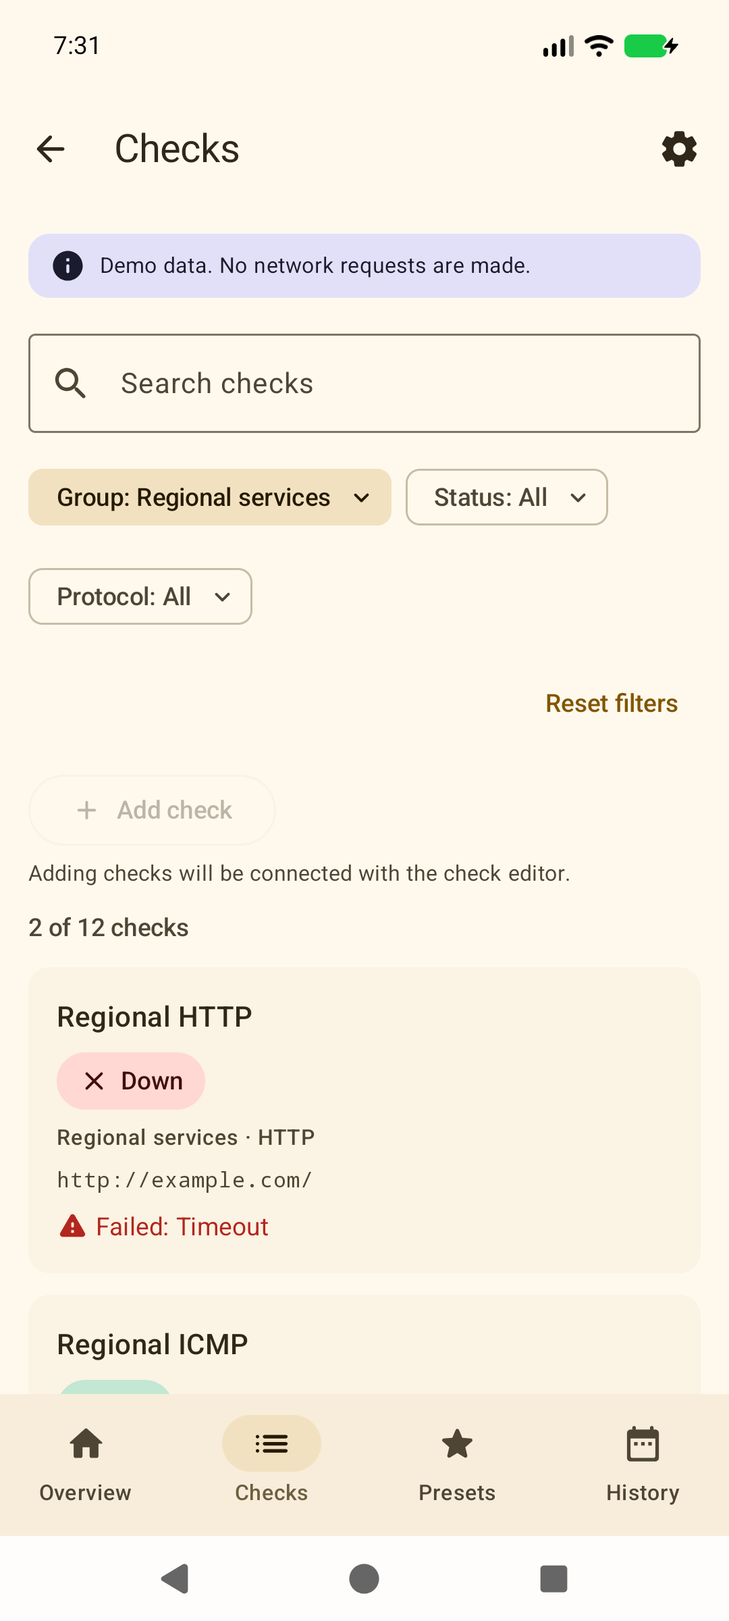
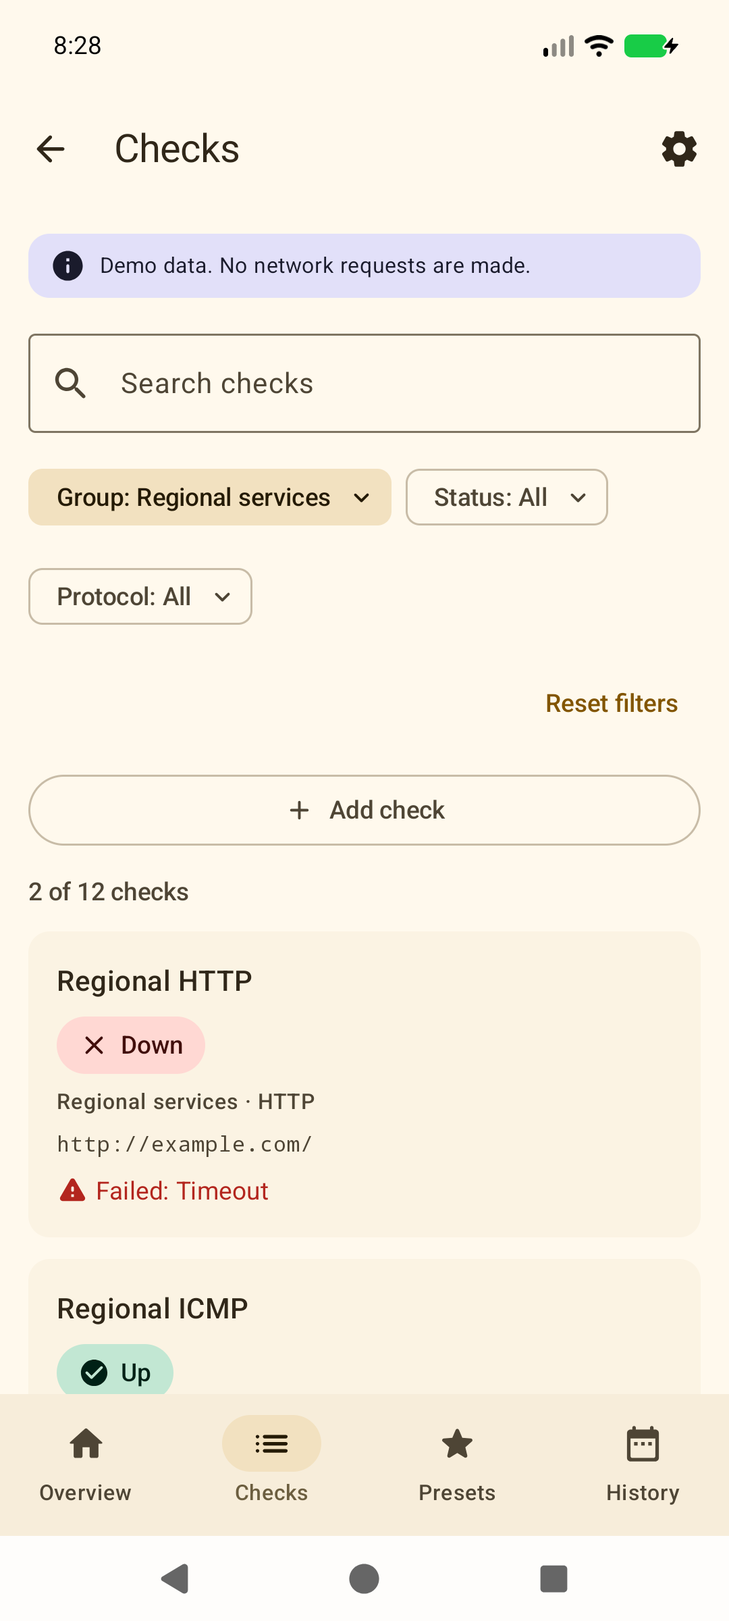
docs: document check editor workflows (#19)

diff --git a/docs/CHECK_EDITOR.md b/docs/CHECK_EDITOR.md
@@ -1,0 +1,103 @@
+# Check editor
+
+The check editor creates and edits every supported P0 probe with the real domain models. It is available from the Checks screen, including the empty state, and from the details screen.
+
+## Supported protocols
+
+The protocol selector covers all current P0 request families:
+
+| Protocol | Target fields | Success criteria |
+| --- | --- | --- |
+| TCP connect | host, port | a completed TCP handshake |
+| TLS | host, port, server name | certificate and hostname validation |
+| HTTP | URL | method, expected status range, optional body marker |
+| HTTPS | URL | method, expected status range, optional body marker |
+| System DNS | DNS name | record type, expected RCODE, answer requirement |
+| DNS over UDP | resolver host, port, DNS name | record type, expected RCODE, answer requirement |
+| DNS over TCP | resolver host, port, DNS name | record type, expected RCODE, answer requirement |
+| DNS over HTTPS | resolver URL, DNS name | record type, expected RCODE, answer requirement |
+| DNS over TLS | resolver host, port, server name, DNS name | record type, expected RCODE, answer requirement |
+| ICMP | host | packet count and minimum replies |
+
+Changing the protocol clears fields that belong to the previous protocol and sets the new protocol defaults. The check name, group and timeout are preserved.
+
+HTTP/3, raw UDP, WebSocket and gRPC are not offered. The editor names them explicitly and does not simulate an unsupported protocol. Redirects are controlled by the shared endpoint policy, not by a per-check switch. Schedule, notification thresholds and group monitoring are profile settings.
+
+## Validation
+
+The editor validates input before constructing `ProbeConfig`:
+
+- Hostnames, IPv4 and IPv6 literals; IPv6 endpoints with a port are shown as `[2001:db8::1]:443`.
+- Ports from 1 to 65535.
+- Absolute HTTP/HTTPS URLs with a host and without credentials or fragments. DoH requires HTTPS.
+- Timeouts from 0.1 to 120 seconds.
+- HTTP status ranges from 100 to 599, in forms such as `204` or `200-299`.
+- `HEAD` requests cannot use a body marker.
+- DNS names, record types from 1 to 65535, RCODE from 0 to 4095, and the rule that a non-zero RCODE cannot require an answer.
+- TLS and DoT server names must be DNS names. IP addresses are rejected as the TLS server name.
+- ICMP packet count from 1 to 10 with at least one reply and no more replies than packets.
+- A selected IP family must agree with a literal IPv4 or IPv6 address.
+
+Invalid input never reaches `ProbeConfig`; the save and test actions show field-level errors and keep the editor open.
+
+TLS certificate and hostname verification are always required. The editor has no switch that can disable them, and it states this next to the TLS target. The future runner performs the actual certificate validation; the editor never fakes a successful handshake.
+
+## Revisions and field reset
+
+A new check starts at revision 1. Editing a name only keeps the revision and its existing result. Changing the request or timeout calls `ProbeConfig.update`, which advances the revision and starts a new history key. The editor rebuilds the visible state from UNKNOWN when the revision changes, so a result from the previous definition is not shown as the current result.
+
+## Contracts and current limits
+
+`ProbeEditorActions` is the UI boundary:
+
+- `onSave` receives a `ProbeDraft` with the domain `ProbeConfig`, group id and group name. The debug harness implements it with an in-memory `ProfileRepository`; production leaves it null until local storage is implemented.
+- `onTest` receives a `ProbeConfig` and is implemented with the `ProbeRunner` contract. The debug harness uses a demo runner that authorizes an attempt through `ProbeAdmission`, returns a domain result and performs no network request. Production leaves it null until the network engine and admission controller are connected.
+
+The production editor therefore shows both actions disabled with the exact reason. No temporary production repository, Room substitute or fake result was added. `LinkSonda` does not request network permissions for the editor, and the demo runner sends no traffic.
+
+The debug-only `OverviewDemoActivity` saves checks into an in-memory `DemoProfileRepository` and displays the updated list for the current session. Nothing is persisted and release builds exclude these classes.
+
+## Demo harness
+
+```bash
+# New check with a protocol preselected
+adb shell am start -S -W -n io.github.chuck852.linksonda/.debug.OverviewDemoActivity \
+  --es scenario PARTIAL --es editor TLS
+
+# Edit an existing demo check
+adb shell am start -S -W -n io.github.chuck852.linksonda/.debug.OverviewDemoActivity \
+  --es scenario PARTIAL --es edit https-global
+```
+
+Useful edit IDs include `https-global` (URL, status and body marker), `tls-global` (server name, minimum TLS and IP family), `dns-udp` (resolver, transport, DNS name and record type), `doh`, `dot` and `icmp-regional`.
+
+## Screenshots
+
+![New HTTPS check](design/editor-https.png)
+
+![TLS target and mandatory certificate validation](design/editor-tls.png)
+
+![DNS over UDP fields](design/editor-dns.png)
+
+![ICMP packet criteria](design/editor-icmp.png)
+
+![Advanced TLS options](design/editor-advanced.png)
+
+![Validation errors keep the editor open](design/editor-validation.png)
+
+![Test result from the demo runner](design/editor-test-result.png)
+
+![Editor opened from the empty production list](design/editor-production.png)
+
+![Editor at 320 dp and 200% font scale](design/editor-large-font.png)
+
+![Editor in dark theme](design/editor-dark.png)
+
+## Verification
+
+- 73 JVM tests, 0 failures. Editor coverage includes all ten protocols, invalid host/URL/port/status/timeout, TLS server-name rules, protocol reset, revision changes and save/test contracts.
+- `clean testDebugUnitTest lintDebug assembleDebug assembleRelease` passes; lint reports 0 errors and the same 6 pre-existing warnings.
+- Android 17 (API 37): new check from the empty production list, edit from details, protocol-specific fields, validation errors, test through the demo runner and save into the demo session.
+- 320 dp at 200% font scale: no horizontal overflow; fields and action buttons wrap and remain reachable.
+- Light and dark themes checked.
+- Release APK contains no demo editor actions, demo runner, demo repository or preview classes.

diff --git a/docs/CHECKS.md b/docs/CHECKS.md
@@ -9,7 +9,7 @@ The Checks tab is backed by the real domain models. Each row keeps a `ProbeConfi
 - All P0 request families are represented: TCP connect, TLS, HTTP, HTTPS, system DNS, DNS over UDP, DNS over TCP, DoH, DoT and ICMP.
 - Each row shows status, freshness when it is stale or missing, an explicit `Skipped`/`Inconclusive`/`Restricted` badge where applicable, group, protocol, a monospaced target and the last elapsed time or error.
 - Search and filter state survives navigation to details and back.
-- `Add check` is shown disabled with an explanation until the check editor is connected.
+- `Add check` opens the check editor from both the empty and populated list. Every supported P0 protocol can be configured there; see [the check editor](CHECK_EDITOR.md).
 
 ## Details
 
@@ -17,7 +17,7 @@ The header shows the result status, freshness, presentation outcome and lifecycl
 
 The result card shows the outcome, recorded time and elapsed duration. Restricted results include `retryAt`; skipped results include the reason and next allowed time. A completed result retained after a later skipped slot keeps both records. A skipped slot older than a newer completed result is history, not the latest state, and is not shown as such. The phase card lists only phases reported by the runner and states that missing phases are not zero. The observations card shows connected IP family, HTTP status and body-marker state, DNS RCODE/answer count/truncation, negotiated TLS, and ICMP packets/loss/RTT. A null fact is rendered as `Not observed`, `Not checked` or `Not measured`, never as `0`.
 
-`Run again` and `Edit check` are wired through nullable `ProbeActions` callbacks with a `ProbeKey`. Production leaves them disabled with an explanation until the runner and profile editor are connected. The debug harness enables them only to show a demo message; it sends no request and saves nothing. History is an explicit placeholder until local storage is implemented.
+`Run again` and `Edit check` are wired through nullable `ProbeActions` callbacks with a `ProbeKey`. `Edit check` opens the editor; production disables only saving and test requests until local storage and the network engine are connected. `Run again` remains disabled until the runner is connected. The debug harness uses an in-memory runner and profile repository for the editor demo; it sends no network request and persists nothing. History is an explicit placeholder until local storage is implemented.
 
 | Presentation | What is shown |
 | --- | --- |
@@ -30,7 +30,7 @@ The result card shows the outcome, recorded time and elapsed duration. Restricte
 
 ## Demo harness
 
-`OverviewDemoActivity` contains 12 domain-backed checks covering all ten protocol variants and every presentation state. Every screen shows the demo banner; no network request is made and nothing is persisted.
+`OverviewDemoActivity` contains 12 domain-backed checks covering all ten protocol variants and every presentation state. Every screen shows the demo banner; the editor demo can save into the activity session, but sends no network request and persists nothing.
 
 ```bash
 adb shell am start -S -W -n io.github.chuck852.linksonda/.debug.OverviewDemoActivity \
@@ -39,7 +39,7 @@ adb shell am start -S -W -n io.github.chuck852.linksonda/.debug.OverviewDemoActi
   --es scenario PARTIAL --es probe https-global
 ```
 
-Useful demo IDs include `https-global` (revision 2, matched HTTPS with phases), `tls-global` (stale), `https-retained` (a completed result retained after a later skipped slot), `http-regional` (timeout), `dns-tcp` (skipped without data), `doh` (inconclusive) and `dot` (restricted).
+Useful demo IDs include `https-global` (revision 2, matched HTTPS with phases), `tls-global` (stale), `https-retained` (a completed result retained after a later skipped slot), `http-regional` (timeout), `dns-tcp` (skipped without data), `doh` (inconclusive) and `dot` (restricted). Use `--es edit <id>` to open the editor for a demo check or `--es editor <PROTOCOL>` for a new check.
 
 ![Checks list with demo data](design/checks-list.png)
 
@@ -65,7 +65,7 @@ Useful demo IDs include `https-global` (revision 2, matched HTTPS with phases), 
 
 ## Verification
 
-- 52 JVM tests: 15 domain, 2 build configuration, 8 palette, 3 contrast, 7 navigation, 6 filtering, 6 check-item invariants/formatting, 2 overview state and 3 demo-scenario tests.
+- 73 JVM tests, including editor validation, every protocol round-trip, revision changes, protocol field resets, navigation and demo save/test contracts.
 - Android 17 (API 37): search, group/status/protocol filters, filtered empty state, details navigation, back stack, light and dark themes checked.
 - 320 dp width at 200% font scale: no horizontal overflow; labels and fields wrap; controls remain reachable.
 - Release build excludes the demo activity, domain-backed demo catalog and demo resources.

diff --git a/docs/ARCHITECTURE.md b/docs/ARCHITECTURE.md
@@ -2,7 +2,7 @@
 
 ## Current build
 
-`:app` is a native Android application written in Kotlin with Jetpack Compose and Material 3. `MainActivity` hosts `LinkSondaApp`, which owns the four-tab navigation shell and the overview. The project currently has one Android module, JVM tests for the debug build configuration, domain model, theme, navigation and overview state, and an Android CI workflow. It uses no backend or account system.
+`:app` is a native Android application written in Kotlin with Jetpack Compose and Material 3. `MainActivity` hosts `LinkSondaApp`, which owns the four-tab navigation shell and the overview. The project currently has one Android module, JVM tests for the debug build configuration, domain model, theme, navigation, overview state and check editor, and an Android CI workflow. It uses no backend or account system.
 
 ## Navigation and presentation
 
@@ -14,9 +14,15 @@ The debug source set contains `OverviewDemoActivity`, demo scenarios and Compose
 
 ## Checks and details — public #16
 
-The Checks tab keeps `ProbeConfig` and `ProbeState` in `ProbeListItem`, so the list and details screen preserve the configuration revision and every optional observation. Search and filters are a pure function over the list and are unit-tested separately from Compose. All P0 request families are mapped to a presentation protocol: TCP, TLS, HTTP, HTTPS, system DNS, DNS over UDP/TCP, DoH, DoT and ICMP.
+The Checks tab keeps `ProbeConfig` and `ProbeState` in `ProbeListItem`, so the list and details screen preserve the configuration revision and every optional observation. `ProbeListItem` rejects a state whose context key differs from the configuration revision. Search and filters are a pure function over the list and are unit-tested separately from Compose. All P0 request families are mapped to a presentation protocol: TCP, TLS, HTTP, HTTPS, system DNS, DNS over UDP/TCP, DoH, DoT and ICMP. IPv6 endpoints with ports use brackets.
 
-The details screen renders protocol-specific configuration, the latest `ProbeResult.Completed` or `Skipped`, freshness, outcome, measured phases and optional observations. Missing facts are rendered as not observed or not measured; the UI never substitutes zero. Retry and edit use nullable callbacks with a `ProbeKey`; production keeps them disabled until the runner and profile editor are connected, while demo callbacks only show a banner. See [checks and details](CHECKS.md).
+The details screen renders protocol-specific configuration, the latest `ProbeResult.Completed` or `Skipped`, freshness, outcome, measured phases and optional observations. Missing facts are rendered as not observed or not measured; the UI never substitutes zero. Retry and edit use nullable callbacks with a `ProbeKey`; edit opens the check editor, while retry stays disabled until the runner is connected. See [checks and details](CHECKS.md).
+
+## Check editor — public #19
+
+`ProbeEditorState` is a pure, saveable presentation model for all supported request families. It keeps partially typed values as strings, validates hosts, IPv4/IPv6, ports, URLs, timeouts, HTTP status ranges, DNS fields and TLS server names, and is the only place that constructs `ProbeConfig`. A protocol change resets fields that do not apply to the new request family. Editing a request or timeout delegates to `ProbeConfig.update`, which advances the revision; renaming keeps it. TLS and DoT require a DNS server name and certificate verification cannot be disabled.
+
+`ProbeEditorActions` is the UI boundary: `onSave` receives a `ProbeDraft` and `onTest` receives a `ProbeConfig`. Production leaves both null until `ProfileRepository` storage and `ProbeRunner` transport are connected, so the editor shows the exact limitation instead of adding a temporary repository. The debug harness implements the callbacks with `DemoProfileRepository` and `DemoProbeRunner`; the demo runner authorizes through `ProbeAdmission`, returns a domain result and sends no traffic. Neither demo class is present in release builds. See [the check editor](CHECK_EDITOR.md).
 
 ## Theme and design system
 

diff --git a/docs/NAVIGATION.md b/docs/NAVIGATION.md
@@ -9,6 +9,7 @@ The app shell implements the four approved top-level destinations: Overview, Che
 - selecting a bottom-bar tab returns to that tab's root;
 - a group card opens the Checks tab filtered to that group;
 - the filter chip clears the filter and stays on Checks;
+- a check row opens details, and `Edit check` or `Add check` opens the check editor above Checks;
 - Settings opens above the current tab;
 - the top-bar back action and the Android system back action pop one entry;
 - at a tab root, system back leaves the activity.
@@ -30,7 +31,7 @@ The production state is `OverviewUiState.Empty`: UNKNOWN availability, no result
 
 ## Checks, presets, history and settings
 
-Checks shows all probes or a filtered subset. Search covers names, groups, targets and protocols; filters cover group, status and protocol. Each row contains the name, protocol, target, result badge and latency, failure, skip or inconclusive reason. Opening a row shows the full configuration, result, measured phases and observations. See [checks and details](CHECKS.md).
+Checks shows all probes or a filtered subset. Search covers names, groups, targets and protocols; filters cover group, status and protocol. Each row contains the name, protocol, target, result badge and latency, failure, skip or inconclusive reason. Opening a row shows the full configuration, result, measured phases and observations. The `Add check` action is available from the empty and populated list, and `Edit check` opens the same editor. See [checks and details](CHECKS.md) and [the check editor](CHECK_EDITOR.md).
 
 Presets and History currently show honest empty states. Settings opens a placeholder until the settings and localization issue is implemented. The empty states do not imply that monitoring is running.
 
@@ -56,7 +57,7 @@ adb shell am start -S -W -n io.github.chuck852.linksonda/.debug.OverviewDemoActi
   --es scenario PARTIAL --es tab OVERVIEW
 ```
 
-Supported scenarios are `EMPTY`, `UNKNOWN`, `RUNNING`, `PARTIAL`, `DOWN` and `UP`. `--es tab CHECKS|PRESETS|HISTORY` opens a tab, and `--es filter regional` opens the filtered Checks screen. Every demo screen displays the banner “Demo data. No network requests are made.”
+Supported scenarios are `EMPTY`, `UNKNOWN`, `RUNNING`, `PARTIAL`, `DOWN` and `UP`. `--es tab CHECKS|PRESETS|HISTORY` opens a tab, `--es filter regional` opens the filtered Checks screen, `--es edit <id>` opens an existing check in the editor and `--es editor <PROTOCOL>` starts a new check. Every demo screen displays the banner “Demo data. No network requests are made.”
 
 ![Six overview states with demo data](design/overview-states.png)
 
@@ -74,7 +75,7 @@ Supported scenarios are `EMPTY`, `UNKNOWN`, `RUNNING`, `PARTIAL`, `DOWN` and `UP
 
 ## Verification
 
-- 38 JVM tests cover the domain model, build configuration, theme contrast and palettes, navigation stack, overview state filtering and demo-scenario consistency.
+- 73 JVM tests cover the domain model, build configuration, theme contrast and palettes, navigation stack, overview state filtering, editor validation and demo-scenario consistency.
 - Android 17 (API 37) emulator: all six states rendered at 1080 × 2400; group tap opened the filtered Checks screen and system back returned to Overview; tabs and Settings navigation were exercised.
 - Small screen: 320 dp width with 200% font scale has no horizontal overflow; status labels wrap and bottom-bar icons retain content descriptions.
 - Lint reports 0 errors and 6 pre-existing warnings. No dependency versions were changed.

diff --git a/docs/README.ru.md b/docs/README.ru.md
@@ -4,7 +4,7 @@
 
 [English](../README.md)
 
-LinkSonda — Android-проект для диагностики доступности сети и отдельных ресурсов. Текущая версия `0.1.0` содержит утверждённую дизайн-систему Material 3, навигацию с четырьмя вкладками и список проверок с экраном деталей на доменных моделях. В production обзор остаётся пустым до подключения реального мониторинга. Сетевые проверки, фоновый мониторинг и история инцидентов запланированы.
+LinkSonda — Android-проект для диагностики доступности сети и отдельных ресурсов. Текущая версия `0.1.0` содержит утверждённую дизайн-систему Material 3, навигацию с четырьмя вкладками, список проверок с экраном деталей на доменных моделях и универсальный конструктор всех P0-протоколов. В production обзор остаётся пустым до подключения реального мониторинга. Сетевые проверки, фоновый мониторинг и история инцидентов запланированы.
 
 В [техническом Developer Preview v0.1.0-dev.1](https://github.com/chuck852/LinkSonda/releases/tag/v0.1.0-dev.1) доступны APK стартового экрана с debug-подписью, SHA-256 и лицензионные уведомления. Сетевые проверки запланированы.
 
@@ -22,6 +22,6 @@ adb shell am start -W -n io.github.chuck852.linksonda/.MainActivity
 
 ## Документация
 
-- [Архитектура](ARCHITECTURE.md), [навигация и обзор](NAVIGATION.md), [проверки и детали](CHECKS.md), [тема и дизайн-система](THEME.md) и [дорожная карта](../ROADMAP.md)
+- [Архитектура](ARCHITECTURE.md), [навигация и обзор](NAVIGATION.md), [проверки и детали](CHECKS.md), [конструктор проверок](CHECK_EDITOR.md), [тема и дизайн-система](THEME.md) и [дорожная карта](../ROADMAP.md)
 - [Участие в проекте](../CONTRIBUTING.md) и [сообщения об уязвимостях](../SECURITY.md)
 - [Apache-2.0](../LICENSE) и [уведомления о сторонних компонентах](../THIRD_PARTY_NOTICES.md)

diff --git a/CHANGELOG.md b/CHANGELOG.md
@@ -2,14 +2,17 @@
 
 ## Unreleased
 
+- Added a universal check editor for all P0 protocols with dynamic fields, validation, protocol-aware field reset, revision handling and progressive disclosure of advanced options.
+- Added check creation and editing through the domain models, an explicit TLS server-name requirement, read-only certificate validation and honest save/test limitations while storage and the network engine are not connected.
+- Wired the debug editor to `ProbeRunner` and `ProfileRepository` implementations that keep all demo state in memory and send no network traffic.
 - Added a domain-backed Checks list with search, group/status/protocol filters and an explicit unknown/stale/timeout/inconclusive/restricted/skipped presentation.
 - Added a check details screen with protocol-specific configuration, preserved revisions, latest result, measured phases and observations. Missing measurements are shown as not observed, never as zero.
-- Prepared retry and edit through `ProbeKey` callbacks; production keeps them disabled until the runner and editor are connected.
+- Wired edit through `ProbeKey` callbacks to the check editor; retry remains disabled until the runner is connected.
 - Added the four-tab navigation shell with Overview, Checks, Presets and History, a saveable back stack, group filtering and a settings entry point.
 - Added the overview with aggregate state, freshness, monitoring, network and VPN context, active profile, availability bars and manual-check state. Production remains empty until real monitoring is connected.
 - Added explicit empty, unknown, running, partial, down and up states plus a debug-only demo harness and Compose previews.
 - Added large-font and small-screen adaptations, including wrapping status badges and icon-only bottom navigation with accessible labels.
-- Added 38 JVM tests covering navigation, overview state and demo consistency.
+- Added 73 JVM tests covering navigation, overview state, checks, editor validation and demo consistency.
 - Added the LinkSonda Material 3 design system with adaptive, accents and static color modes.
 - Added light, dark and system brightness, semantic result tones with text and icons, and a 650 ms adaptive transition that respects system animation settings.
 - Added Compose previews, contrast and palette tests, a debug screenshot harness, and design-system documentation.

diff --git a/README.md b/README.md
@@ -4,7 +4,7 @@
 
 [На русском](docs/README.ru.md)
 
-LinkSonda is an Android project for diagnosing network and service availability. The current foundation (`0.1.0`) has the approved Material 3 design system, a four-tab navigation shell, and a domain-backed checks list and details screen. The production overview stays empty until real monitoring is connected. Network probes, background monitoring, and incident history are planned.
+LinkSonda is an Android project for diagnosing network and service availability. The current foundation (`0.1.0`) has the approved Material 3 design system, a four-tab navigation shell, a domain-backed checks list and details screen, and a universal check editor for all P0 protocols. The production overview stays empty until real monitoring is connected. Network probes, background monitoring, and incident history are planned.
 
 The [technical Developer Preview v0.1.0-dev.1](https://github.com/chuck852/LinkSonda/releases/tag/v0.1.0-dev.1) includes the debug-signed starter-screen APK, SHA-256, and license notices. Network diagnostics are planned.
 
@@ -25,7 +25,7 @@ The APK supports Android 8.0 and later (min API 26, target API 37). Choose a dev
 ## Project resources
 
 - [Roadmap](ROADMAP.md) and [changelog](CHANGELOG.md)
-- [Architecture](docs/ARCHITECTURE.md), [navigation and overview](docs/NAVIGATION.md), [checks and details](docs/CHECKS.md), [theme and design system](docs/THEME.md), and [contributing guide](CONTRIBUTING.md)
+- [Architecture](docs/ARCHITECTURE.md), [navigation and overview](docs/NAVIGATION.md), [checks and details](docs/CHECKS.md), [check editor](docs/CHECK_EDITOR.md), [theme and design system](docs/THEME.md), and [contributing guide](CONTRIBUTING.md)
 - [Security policy](SECURITY.md) and [code of conduct](CODE_OF_CONDUCT.md)
 
 LinkSonda is licensed under the [Apache License 2.0](LICENSE). See [third-party notices](THIRD_PARTY_NOTICES.md) for dependencies and distributed build tooling.

diff --git a/ROADMAP.md b/ROADMAP.md
@@ -1,6 +1,6 @@
 # Roadmap
 
-The current foundation contains the Material 3 design system, the four-tab navigation shell, the overview, and the domain-backed checks list and details, a Gradle Wrapper build, JVM tests, and CI-generated debug APKs.
+The current foundation contains the Material 3 design system, the four-tab navigation shell, the overview, the domain-backed checks list and details, the universal check editor for all P0 protocols, a Gradle Wrapper build, JVM tests, and CI-generated debug APKs.
 
 | Milestone | Planned work |
 | --- | --- |
